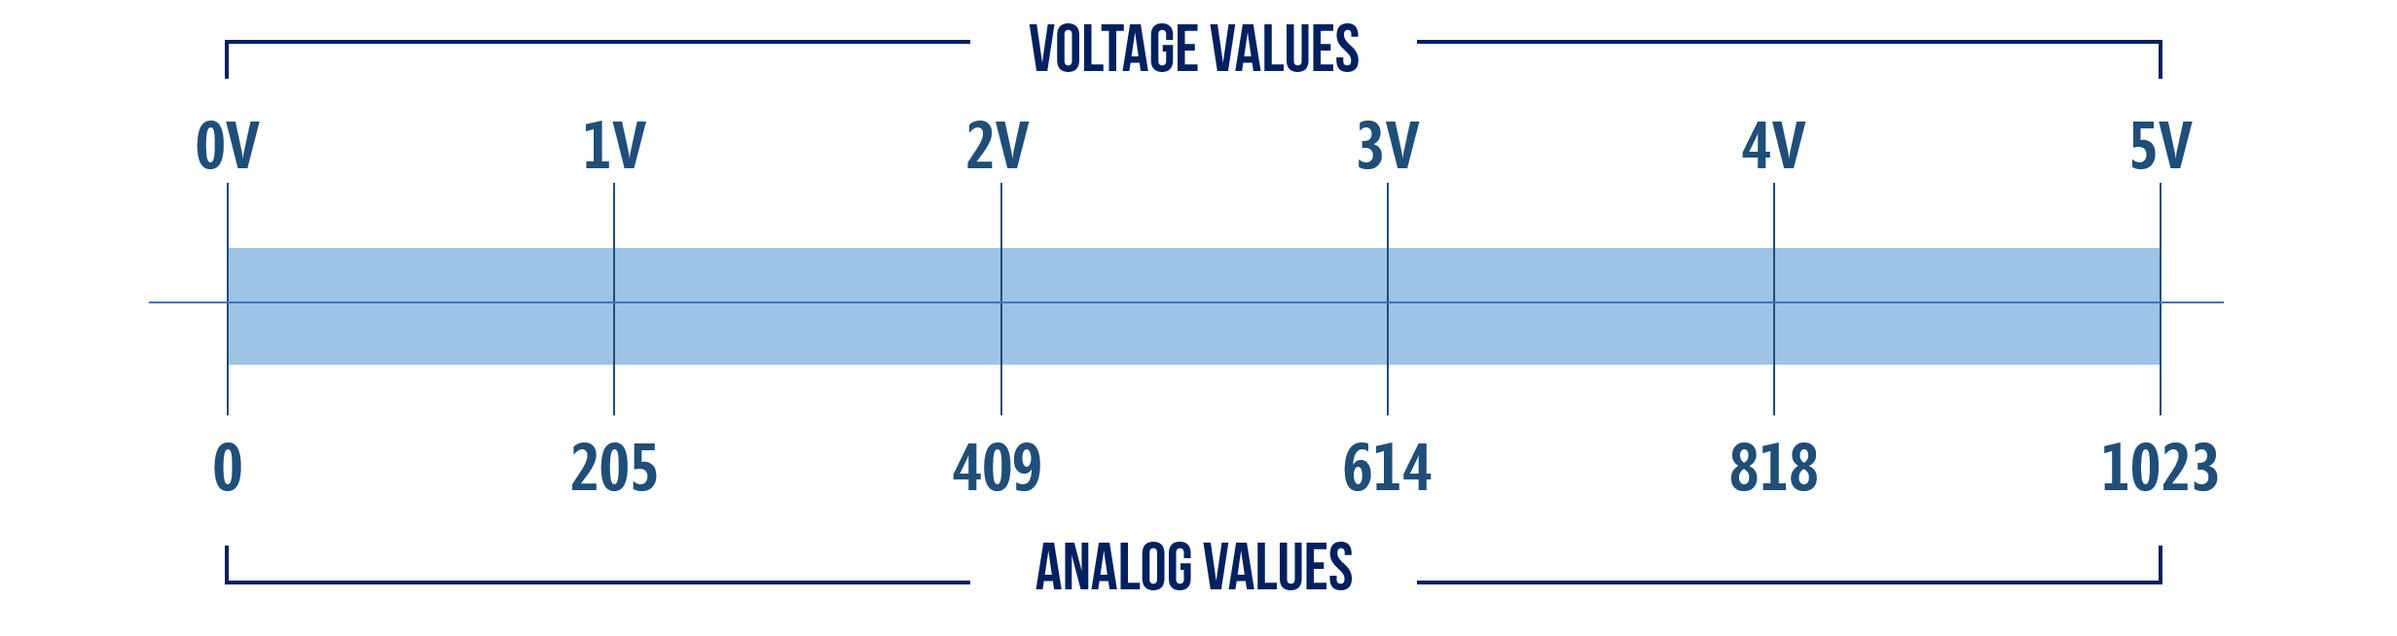
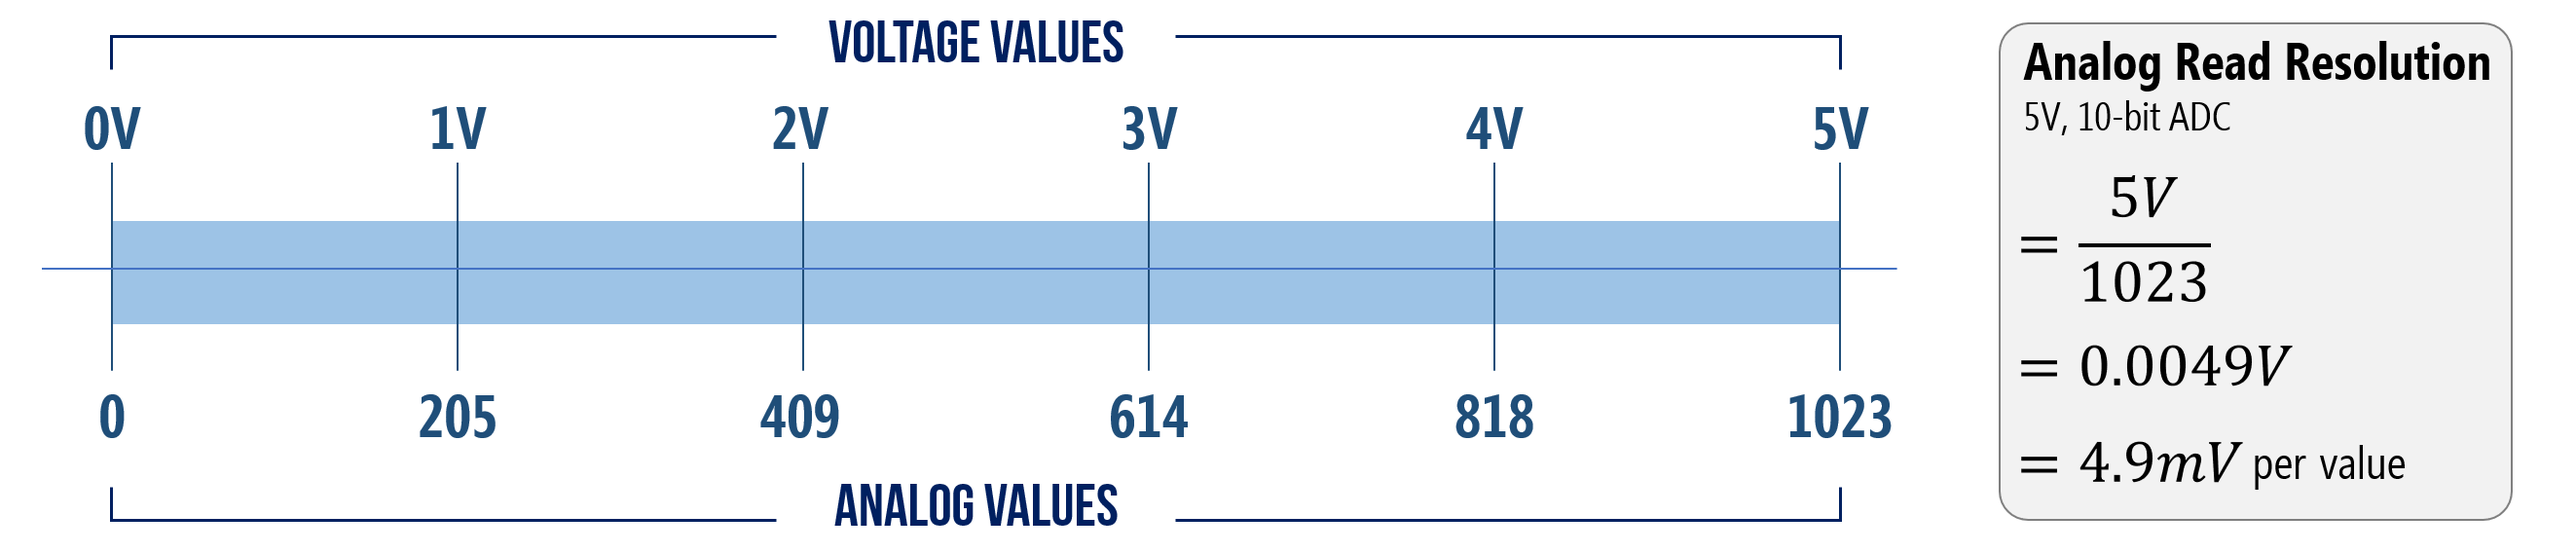
Updated Leonardo to 12 analog outputs
Also added in a separate ADC discussion

diff --git a/arduino/potentiometers.md b/arduino/potentiometers.md
@@ -191,13 +191,13 @@ So, what's analog input?! The world—in all its beauty and complexity—is anal
 
 Analog input!
 
-More formally, just like **analog output** enabled us to write out voltages between 0V and 5V, analog input enables us to read voltages between 0V and 5V. How does this work? Via an [ADC](https://en.wikipedia.org/wiki/Analog-to-digital_converter).
+More formally, just like **analog output** enabled us to write out voltages between 0V and 5V, **analog input** enables us to **read voltages between 0V and 5V**. How does this work? Via an [ADC](https://en.wikipedia.org/wiki/Analog-to-digital_converter).
 
 <!-- TODO: The arduino.cc docs mention adding a short delay before using analogReads on successive pins: https://www.arduino.cc/en/Tutorial/AnalogInputPins. Add this? Here's the full quote: "The ATmega datasheet also cautions against switching analog pins in close temporal proximity to making A/D readings (analogRead) on other analog pins. This can cause electrical noise and introduce jitter in the analog system. It may be desirable, after manipulating analog pins (in digital mode), to add a short delay before using analogRead() to read other analog pins." -->
 
 ### Analog input pins
 
-The Arduino Uno and Leonardo have six analog inputs, which can be read using [`analogRead(int pin)`](https://www.arduino.cc/reference/en/language/functions/analog-io/analogread/). The `analogRead` function reads voltage values between 0 and the Arduino's operating voltage (5V on the Uno and Leonardo) and converts this into integer values between 0 and 1023.
+The Arduino Uno has **six analog inputs** (), which can be read using [`analogRead(int pin)`](https://www.arduino.cc/reference/en/language/functions/analog-io/analogread/). The `analogRead` function reads voltage values between 0 and the Arduino's operating voltage (5V on the Uno and Leonardo) and converts this into integer values between 0 and 1023.
 
 ![Close-up image of the six analog input pins on the Arduino Uno](assets/images/ArduinoUno_CloseUp_AnalogInputPins.png)
 
@@ -205,25 +205,55 @@ Often, students get confused between the analog **output** pins (which use PWM, 
 
 ![Close-up image of the Arduino Uno emphasizing that the Arduino analog input pins are different from the analog output pins](assets/images/ArduinoUno_CloseUp_WarningAnalogInputAndOutputPinsAreDifferent.png)
 
-You can access the analog input pins using `A0`, `A1` ... `AN`. For example, `analogRead(A0)` to read on analog input pin 0. On the Arduino Uno and Leonardo, there are six analog input pins: `A0` - `A6`.
+You can access the analog input pins using `A0`, `A1` ... `AN`. For example, `analogRead(A0)` to read analog input on pin 0. The Arduino Uno has six analog input pins: `A0` - `A6`.
 
----
+### Arduino Leonardo has 12 analog inputs
 
-**NOTE:**
+While at first glance, it appears that the Arduino Leonardo has just six analog inputs (like its close sibling the Arduino Uno). Once again, the PCB silkscreening throws us off!
 
-At risk of adding to pin confusions, if you run out of the general purpose input/output (GPIO) pins (pins 0 - 13 on the Uno and Leonardo), you can use the analog input pins as GPIO pins—they have all the same functionality. These analog pins also have pull-up resistors, which work identically to the pull-up resistors on the digital pins.
+![The standard six analog inputs on the Arduino Leonardo](assets/images/CloseUpPictureOfArduinoLeonardo_AnalogInputs_ByJonEFroehlich.png)
+
+In fact, if you flip over the Leonardo, you'll discover additional white silkscreening, which reveals **six more analog inputs** (for a total of **12**)
+
+![Arduino Leonardo has six extra analog inputs, as labeled on the back of the board](assets/images/CloseUpPictureOfBackOfArduinoLeonardo_ShowingExtraAnalogInputs_ByJonEFroehlich.png)
+
+You can access these by specifying `A6` - `A11` in your code. For example:
 
 ```
-pinMode(A0, INPUT_PULLUP);  // set pull-up on analog pin 0
+int analogVal = analogRead(A6); // A6 is same as D4
 ```
 
-See the [official Arduino docs ](https://www.arduino.cc/en/Tutorial/Foundations/AnalogInputPins)for more information.
+Another view of the back of the Arduino Leonardo board showing the additional analog input pins. Here, you can see the following mapping:
 
----
+![Showing extra analog input pins on Leonardo along with mapping to digital pins](assets/images/CloseUpPictureOfBackOfArduinoLeonardo_ShowingBothExtraAnalogInputPintsAndMappingWithDigitalPins_ByJonEFroehlich.png)
+
+### Analog input on common Arduino boards
+
+When reading [Arduino's analogRead docs](https://www.arduino.cc/reference/en/language/functions/analog-io/analogread/), you'll see a listing of analog input pins, operating voltage, and maximum ADC resolution on common Arduino boards.
+
+| Board | Operating voltage | Usable pins | Max resolution |
+| --- | --- | --- | --- |
+| UNO R3 | 5 Volts | A0 to A5 | 10 bits |
+| UNO R4 (Minima, WiFi) | 5 Volts | A0 to A5 | 14 bits** |
+| Mini | 5 Volts | A0 to A7 | 10 bits |
+| Nano | 5 Volts | A0 to A7 | 10 bits |
+| Nano 33 IoT BLE, RP2040, ESP32) | 3.3 Volts | A0 to A7 | 12 bits** |
+| Mega, Mega2560, MegaADK | 5 Volts | A0 to A14 | 10 bits |
+| Micro | 5 Volts | A0 to A11* | 10 bits |
+| Leonardo | 5 Volts | A0 to A11* | 10 bits |
+| Zero | 3.3 Volts | A0 to A5 | 12 bits** |
+
+\* Though A0-A5 are labeled on the board, A6 through A11 are available on pins 4, 6, 8, 9, 10, and 12—as is the case with the Arduino Leonardo.
+{: .fs-1 }
+
+\** Though these boards support higher resolution analog-to-digital conversions (e.g., 14 bits rather than 10), they are set to 10 bits for compatibility (because lots of code exists with 1023 hard-coded in as the max analog input whereas it would be 16383).
+{: .fs-1 }
 
 ### How does the Arduino read analog input?
 
-Remember how we said that Arduino input pins work like voltmeters? Just as voltmeters measure voltage in parallel—you connect the probes to two nodes in your circuit and the voltmeter measures the voltage difference between them—microcontrollers work similarly. Of course, microcontrollers have a single pin per input while voltmeters have two. Why the difference? Well, with voltmeters, you provide two reference points. With microcontrollers, the voltage at an input pin is always compared to `GND` (so, that second "probe point" is always ground).
+Remember how we said that Arduino input pins work like voltmeters? Just as voltmeters measure voltage in parallel—you connect the probes to two nodes in your circuit and the voltmeter measures the voltage difference between them—microcontrollers work similarly. 
+
+But, you might say: microcontrollers only have a single pin per input while voltmeters have two. Why the difference? Well, with voltmeters, you provide two reference points. With microcontrollers, the voltage at an input pin is always compared to `GND` (so, that second "probe point" is always ground).
 
 It's important that you conceptually understand that microcontrollers work by measuring voltages and not current. In fact, the [ATmega328 datasheet](http://ww1.microchip.com/downloads/en/DeviceDoc/ATmega48A-PA-88A-PA-168A-PA-328-P-DS-DS40002061A.pdf) says analog input pins have an effective resistance of 100,000,000Ω (100MΩ), which means almost **no current** goes into an input pin (see Table 29.8).
 
@@ -231,22 +261,29 @@ This means that we have to configure our variable resistor sensors as **voltage 
 
 ### Analog-to-digital converter (ADC)
 
-The Arduino's microcontroller contains an analog-to-digital converter (ADC), which converts analog voltage signals to computational bits that can be processed by a computer. On the Arduino and Leonardo, the ADC is 10 bits. So, it converts voltages between 0 and $$V_{cc}$$ (5V) to a $$0 - 2^{10}$$ range (0-1023). Thus, the resolution between readings is 5V / 1024 or 0.0049 volts (4.9 mV).
+The Arduino Uno's ATmega328 microcontroller contains an analog-to-digital converter (ADC), which converts analog voltage signals to computational bits that can be processed by a computer. On both the Uno and Leonardo, the ADC is 10 bits. So, the ADC converts voltages between 0 and $$V_{cc}$$ (5V) to a $$0 - 2^{10}$$ range (0-1023). Thus, the resolution between readings is 5V / 1024 or 0.0049 volts (4.9 mV).
 
-![](assets/images/VoltageToAnalogValue_10BitADC.png)
-
+![A graph showing the mapping between voltage values and analog values with 10-bit ADC and 5V board](assets/images/VoltageToAnalogValue_10BitADC.png)
 **Figure.** The Arduino Uno and Leonardo have 10-bit ADC's, which convert analog voltages between 0 - 5V to an integer range of 0 - 1023. Thus, the ADC resolution is 0.0049mV.
 {: .fs-1 }
 
-Why does this matter?
+Many newer Arduino boards use more modern 3.3V microcontrollers with higher-resolution ADCs. For example, The [Arduino Nano 33 IoT](https://store-usa.arduino.cc/products/arduino-nano-33-iot) and the ESP32 boards are both 3.3V with 12-bit ADCs.
 
-For many purposes, it probably doesn't. But the practical implication is that with a 0.0049V resolution, you won't be able to tell the difference between, for example, 2.0140V and 2.0152V (both which would convert to 411) or 4.9148V and 4.9190V (both which would be read as 1003). Does this matter? It depends on the context—for most things we do, it won't. We discuss quantization in more depth in the [Sensors](../sensors/index.md) and [Signals](../signals/index.md) sections.
+![A graph showing the mapping between voltage values and analog values with 12-bit ADC and 3.3V board](assets/images/VoltageToAnalogValue_12BitADC_3.3VBoard.png)
+**Figure.** The Arduino Nano 33 IoT, Arduino Zero, and the ESP32 all operate at 3.3V with 12-bit ADCs (0 - 4095). Thus, the ADC resolution is 0.81mV.
+{: .fs-1 }
+
+#### Why does the ADC resolution matter?
+
+For many purposes, it probably doesn't. But the practical implication is that with a 5V board and a 10-bit ADC (like the Uno and Leonardo), we have a 0.0049V resolution. So, you won't be able to tell the difference between, for example, 2.0140V and 2.0152V (both which would convert to 411) or 4.9148V and 4.9190V (both which would be read as 1003). Does this matter? It depends on the context—for most things we do, it won't. 
+
+We discuss quantization in more depth in the [Sensors](../sensors/index.md) and [Signals](../signals/index.md) sections.
 
 #### Changing the HIGH reference voltage
 
 If you want to improve the ADC resolution, you have two choices: (1) up the bitrate, which would require different hardware (you can use an external ADC like this 12-bit [ADS1015](https://www.adafruit.com/product/1083)) or (2) decrease the convertible voltage range (so, applying the same 10-bits across a smaller voltage range).
 
-It's possible to do the latter on the Arduino. You can change the `HIGH` reference voltage from $$V_{cc}$$ (which is 5V on the Uno and Leonardo) to a different value between 1.0V to $$V_{cc}$$ using [analogReference()](https://www.arduino.cc/reference/en/language/functions/analog-io/analogreference/). The `LOW` reference voltage is fixed to $$GND$$.
+It's possible to do the latter on the Arduino. You can change the `HIGH` reference voltage from $$V_{cc}$$ (which is 5V on the Uno and Leonardo) to a different value—for example, to 2V (1.0V is the minimum) using [analogReference()](https://www.arduino.cc/reference/en/language/functions/analog-io/analogreference/). The `LOW` reference voltage is fixed to $$GND$$.
 
 Changing the reference voltage may be useful if you know your max analog input value is less than $$V_{cc}$$ because you will increase your ADC precision.
 
@@ -257,7 +294,9 @@ On the Uno and Leonardo, the options are:
 
 #### How does the ADC actually work?
 
-But wait, you might wonder, how does the actual conversion from analog-to-digital work? This question is beyond the scope of our class (and even our own knowledge); however, from our research, we found that the ATmega328 uses a successive approximation ADC, which converts continuous analog signals via a binary search through all possible quantization levels before converging on a digital output for each conversion ([Wikipedia](https://en.wikipedia.org/wiki/Successive_approximation_ADC)). According to the ATmega328 datasheet, "the successive approximation circuity requires an input clock frequency between 50 kHz and 200kHz to get maximum resolution. If a lower resolution than 10 bits is needed, the input clock frequency to the ADC can be higher than 200 kHz to get a higher sample rate." See this [EE StackExchange discussion](https://electronics.stackexchange.com/questions/97606/analog-digital-conversion-clock-prescaling-atmega328p).
+But wait, you might wonder, how does the actual conversion from analog-to-digital work? This question is beyond the scope of our class (and even our own knowledge); however, from our research, we found that the ATmega328 uses a successive approximation ADC, which converts continuous analog signals via a binary search through all possible quantization levels before converging on a digital output for each conversion ([Wikipedia](https://en.wikipedia.org/wiki/Successive_approximation_ADC)). 
+
+According to the ATmega328 datasheet, "*the successive approximation circuity requires an input clock frequency between 50 kHz and 200kHz to get maximum resolution. If a lower resolution than 10 bits is needed, the input clock frequency to the ADC can be higher than 200 kHz to get a higher sample rate.*" See this [EE StackExchange discussion](https://electronics.stackexchange.com/questions/97606/analog-digital-conversion-clock-prescaling-atmega328p).
 
 <!-- TODO: even more interesting discussions about how for one ADC clock period, the ADC has to charge a capacitor that it uses to measure voltage on the input pin. See: https://www.avrfreaks.net/forum/minumum-current-required-analog-pin-atmega328 -->
 
